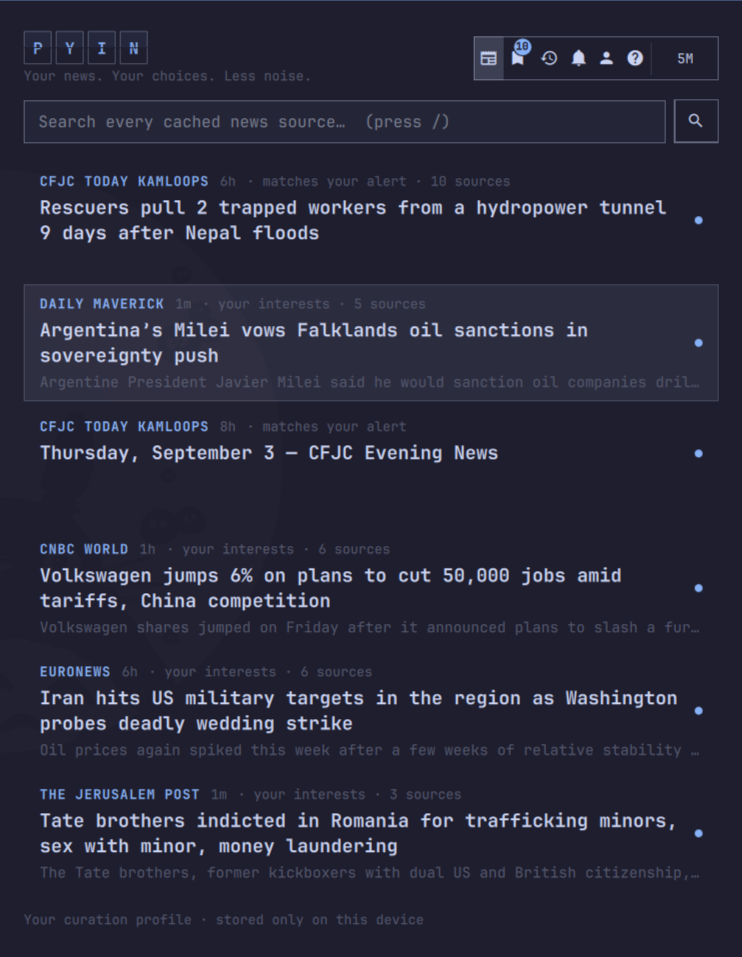
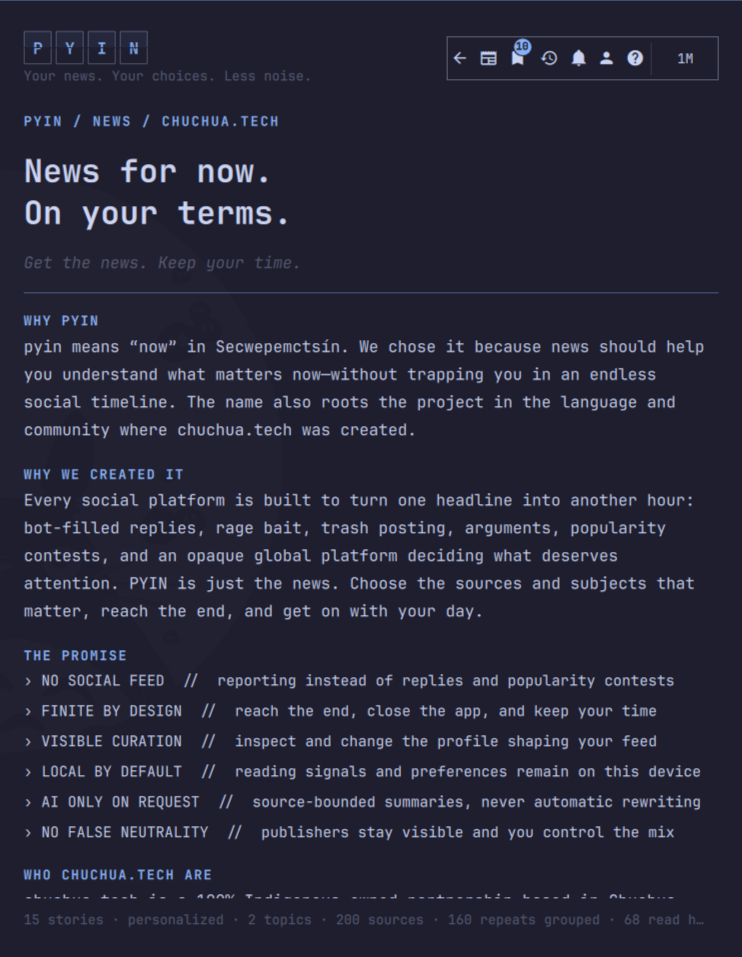
Harden feeds and sharpen the launch story

diff --git a/AboutPage.qml b/AboutPage.qml
@@ -114,7 +114,7 @@ Item {
       Text {
         width: parent.width
         textFormat: Text.PlainText
-        text: "Your news. Your choices. Less noise."
+        text: "Get the news. Keep your time."
         color: root.dim
         font.family: root.fontFamily
         font.pixelSize: Style.font.body
@@ -136,7 +136,7 @@ Item {
 
       AboutSection {
         heading: "WHY WE CREATED IT"
-        copy: "We wanted a clean way to follow important reporting without bot-filled replies, rage bait, trash posting, or an opaque global platform deciding what deserves our attention. PYIN starts with published RSS reporting, then gives you direct control over topics, sources, alerts, blocked words, and what it learns from you."
+        copy: "Every social platform is built to turn one headline into another hour: bot-filled replies, rage bait, trash posting, arguments, popularity contests, and an opaque global platform deciding what deserves attention. PYIN is just the news. Choose the sources and subjects that matter, reach the end, and get on with your day."
       }
 
       Column {
@@ -157,6 +157,7 @@ Item {
         Repeater {
           model: [
             "NO SOCIAL FEED  //  reporting instead of replies and popularity contests",
+            "FINITE BY DESIGN  //  reach the end, close the app, and keep your time",
             "VISIBLE CURATION  //  inspect and change the profile shaping your feed",
             "LOCAL BY DEFAULT  //  reading signals and preferences remain on this device",
             "AI ONLY ON REQUEST  //  source-bounded summaries, never automatic rewriting",

diff --git a/tests/test_release.py b/tests/test_release.py
@@ -1,4 +1,6 @@
 import json
+from importlib.machinery import SourceFileLoader
+from importlib.util import module_from_spec, spec_from_loader
 import os
 from pathlib import Path
 import subprocess
@@ -6,6 +8,7 @@ import sys
 import tempfile
 import unittest
 from urllib.parse import urlparse
+from unittest import mock
 
 
 ROOT = Path(__file__).resolve().parents[1]
@@ -14,6 +17,14 @@ ROOT = Path(__file__).resolve().parents[1]
 def load_json(name):
     with (ROOT / name).open(encoding="utf-8") as handle:
         return json.load(handle)
+
+
+def load_backend():
+    loader = SourceFileLoader("pyin_release_backend", str(ROOT / "bin" / "chuchua-news"))
+    spec = spec_from_loader(loader.name, loader)
+    module = module_from_spec(spec)
+    loader.exec_module(module)
+    return module
 
 
 class ReleasePackageTests(unittest.TestCase):
@@ -92,6 +103,57 @@ class ReleasePackageTests(unittest.TestCase):
             self.assertEqual(report["sources"], 200)
             self.assertEqual(report["catalog_sources"], 200)
             self.assertFalse(report["setup_complete"])
+
+    def test_feed_parser_repairs_an_isolated_legacy_byte(self):
+        backend = load_backend()
+        raw = (
+            b'<?xml version="1.0" encoding="UTF-8"?>'
+            b'<rss><channel><item><title><![CDATA[Legacy\xa0space]]></title>'
+            b'<link>https://example.com/story</link>'
+            b'<description>Test</description></item></channel></rss>'
+        )
+        articles = backend.parse_feed(
+            {"name": "Encoding Test", "topics": ["test"]}, raw, 1_800_000_000
+        )
+        self.assertEqual(len(articles), 1)
+        self.assertEqual(articles[0]["url"], "https://example.com/story")
+
+    def test_feed_request_does_not_force_compression(self):
+        backend = load_backend()
+        captured_headers = {}
+
+        class Response:
+            headers = {}
+
+            def __enter__(self):
+                return self
+
+            def __exit__(self, *_args):
+                return False
+
+            def read(self, _size):
+                return b"<rss><channel /></rss>"
+
+        def fake_urlopen(request, timeout):
+            self.assertGreater(timeout, 0)
+            captured_headers.update(dict(request.header_items()))
+            return Response()
+
+        with mock.patch.object(backend.urllib.request, "urlopen", fake_urlopen):
+            body, _validators = backend.http_get_conditional(
+                "https://example.com/feed", 1024
+            )
+
+        self.assertEqual(body, b"<rss><channel /></rss>")
+        self.assertNotIn("Accept-encoding", captured_headers)
+        self.assertEqual(captured_headers["User-agent"], backend.USER_AGENT)
+
+        captured_headers.clear()
+        with mock.patch.object(backend.urllib.request, "urlopen", fake_urlopen):
+            backend.http_get_conditional(
+                "https://www.cbc.ca/webfeed/rss/rss-topstories", 1024
+            )
+        self.assertEqual(captured_headers["User-agent"], "Mozilla/5.0")
 
 
 if __name__ == "__main__":

diff --git a/README.md b/README.md
@@ -1,11 +1,18 @@
 # PYIN News
 
-A private, keyboard-first, tiled news reader for Omarchy. It ships with a
-catalog of 200 RSS/Atom feeds, groups repeated coverage into events, and ranks
-those events locally using explicit choices plus optional short- and long-term
-memory. AI runs only when you explicitly request it.
+**Get the news. Keep your time.**
 
-![PYIN News feed running as a tiled Omarchy application](preview.png)
+Every social feed wants another hour from you. PYIN does not. There are no bot
+replies, rage-bait arguments, popularity contests, or infinite scroll. Choose
+the reporting and subjects that matter, read a finite edition with a beginning
+and an end, then get on with your day.
+
+PYIN is a private, keyboard-first, tiled news reader for Omarchy. It ships with
+a catalog of 200 RSS/Atom feeds, groups repeated coverage into events, and
+ranks those events locally using choices you can inspect and change. AI runs
+only when you explicitly request it.
+
+![PYIN News vision page running as a tiled Omarchy application](preview.png)
 
 ## Install
 
@@ -61,9 +68,9 @@ opening or summarizing a story can also fetch that publisher's article page.
 AI never ranks the feed and runs only after an explicit TL;DR or question. In
 System AI mode, the supplied article text is sent to the configured Codex
 model. In Local server mode, it is sent only to the configured loopback
-endpoint. No AI mode does not send article text to any model. The feedback form
-opens a local pre-addressed email draft and sends nothing until the user
-chooses to send it.
+endpoint. With No AI selected, article text is not sent to any model. The
+feedback form opens a local pre-addressed email draft and sends nothing until
+the user chooses to send it.
 
 ## Controls
 

diff --git a/RELEASING.md b/RELEASING.md
@@ -1,0 +1,38 @@
+# Releasing PYIN News
+
+This file records the repeatable release and Omarchy marketplace process for
+maintainers.
+
+## Marketplace listing
+
+- Repository: `https://github.com/chuchua-tech/pyin-news`
+- Category: `Productivity`
+- Tags: `Media`, `Quickshell`, `AI`
+- Suggested missing tag: `News`
+
+Maintainer notes:
+
+> PYIN uses theme-native QML plus a standard-library-only Python helper. It has
+> no installer, privileged operations, package-manager step, background system
+> service, analytics, or account. It contacts configured RSS/Atom and article
+> hosts. AI is optional and user-invoked: System AI uses the user's configured
+> Codex provider, Local server is restricted to loopback, and No AI remains a
+> complete reader. `notify-send` is optional for alerts. User state remains in
+> XDG config/state directories and is documented in the README.
+
+## Release checklist
+
+1. Update `manifest.json`, the backend user agent, and `CHANGELOG.md` to the
+   same version.
+2. Run `python -m py_compile bin/chuchua-news tests/test_release.py`.
+3. Run `python -m unittest discover -s tests -v`.
+4. Run `omarchy plugin validate .` on current Omarchy.
+5. Run a full refresh from an empty temporary XDG state directory and review
+   every source error.
+6. Commit, push `main`, and wait for GitHub Actions to pass.
+7. Install from the public GitHub URL into a clean Omarchy profile; test first
+   launch, update, and removal.
+8. Tag the verified commit as `v<version>` and create the GitHub release.
+9. Submit the repository through the official Omarchy plugin form.
+
+Do not tag a release while the worktree is dirty or CI is failing.

diff --git a/CHANGELOG.md b/CHANGELOG.md
@@ -17,5 +17,7 @@ Initial public release.
 - Feed-provided synopses and optional streaming AI TL;DRs with journalistic guardrails
 - System AI presets, a loopback local-server option, and a complete No AI mode
 - Event clustering, stable feed ordering, adaptive source backoff, and source diagnostics
+- Feed compatibility for publishers that reject explicit compression or emit
+  isolated legacy bytes in otherwise valid UTF-8 XML
 
 [0.18.0]: https://github.com/chuchua-tech/pyin-news/releases/tag/v0.18.0
